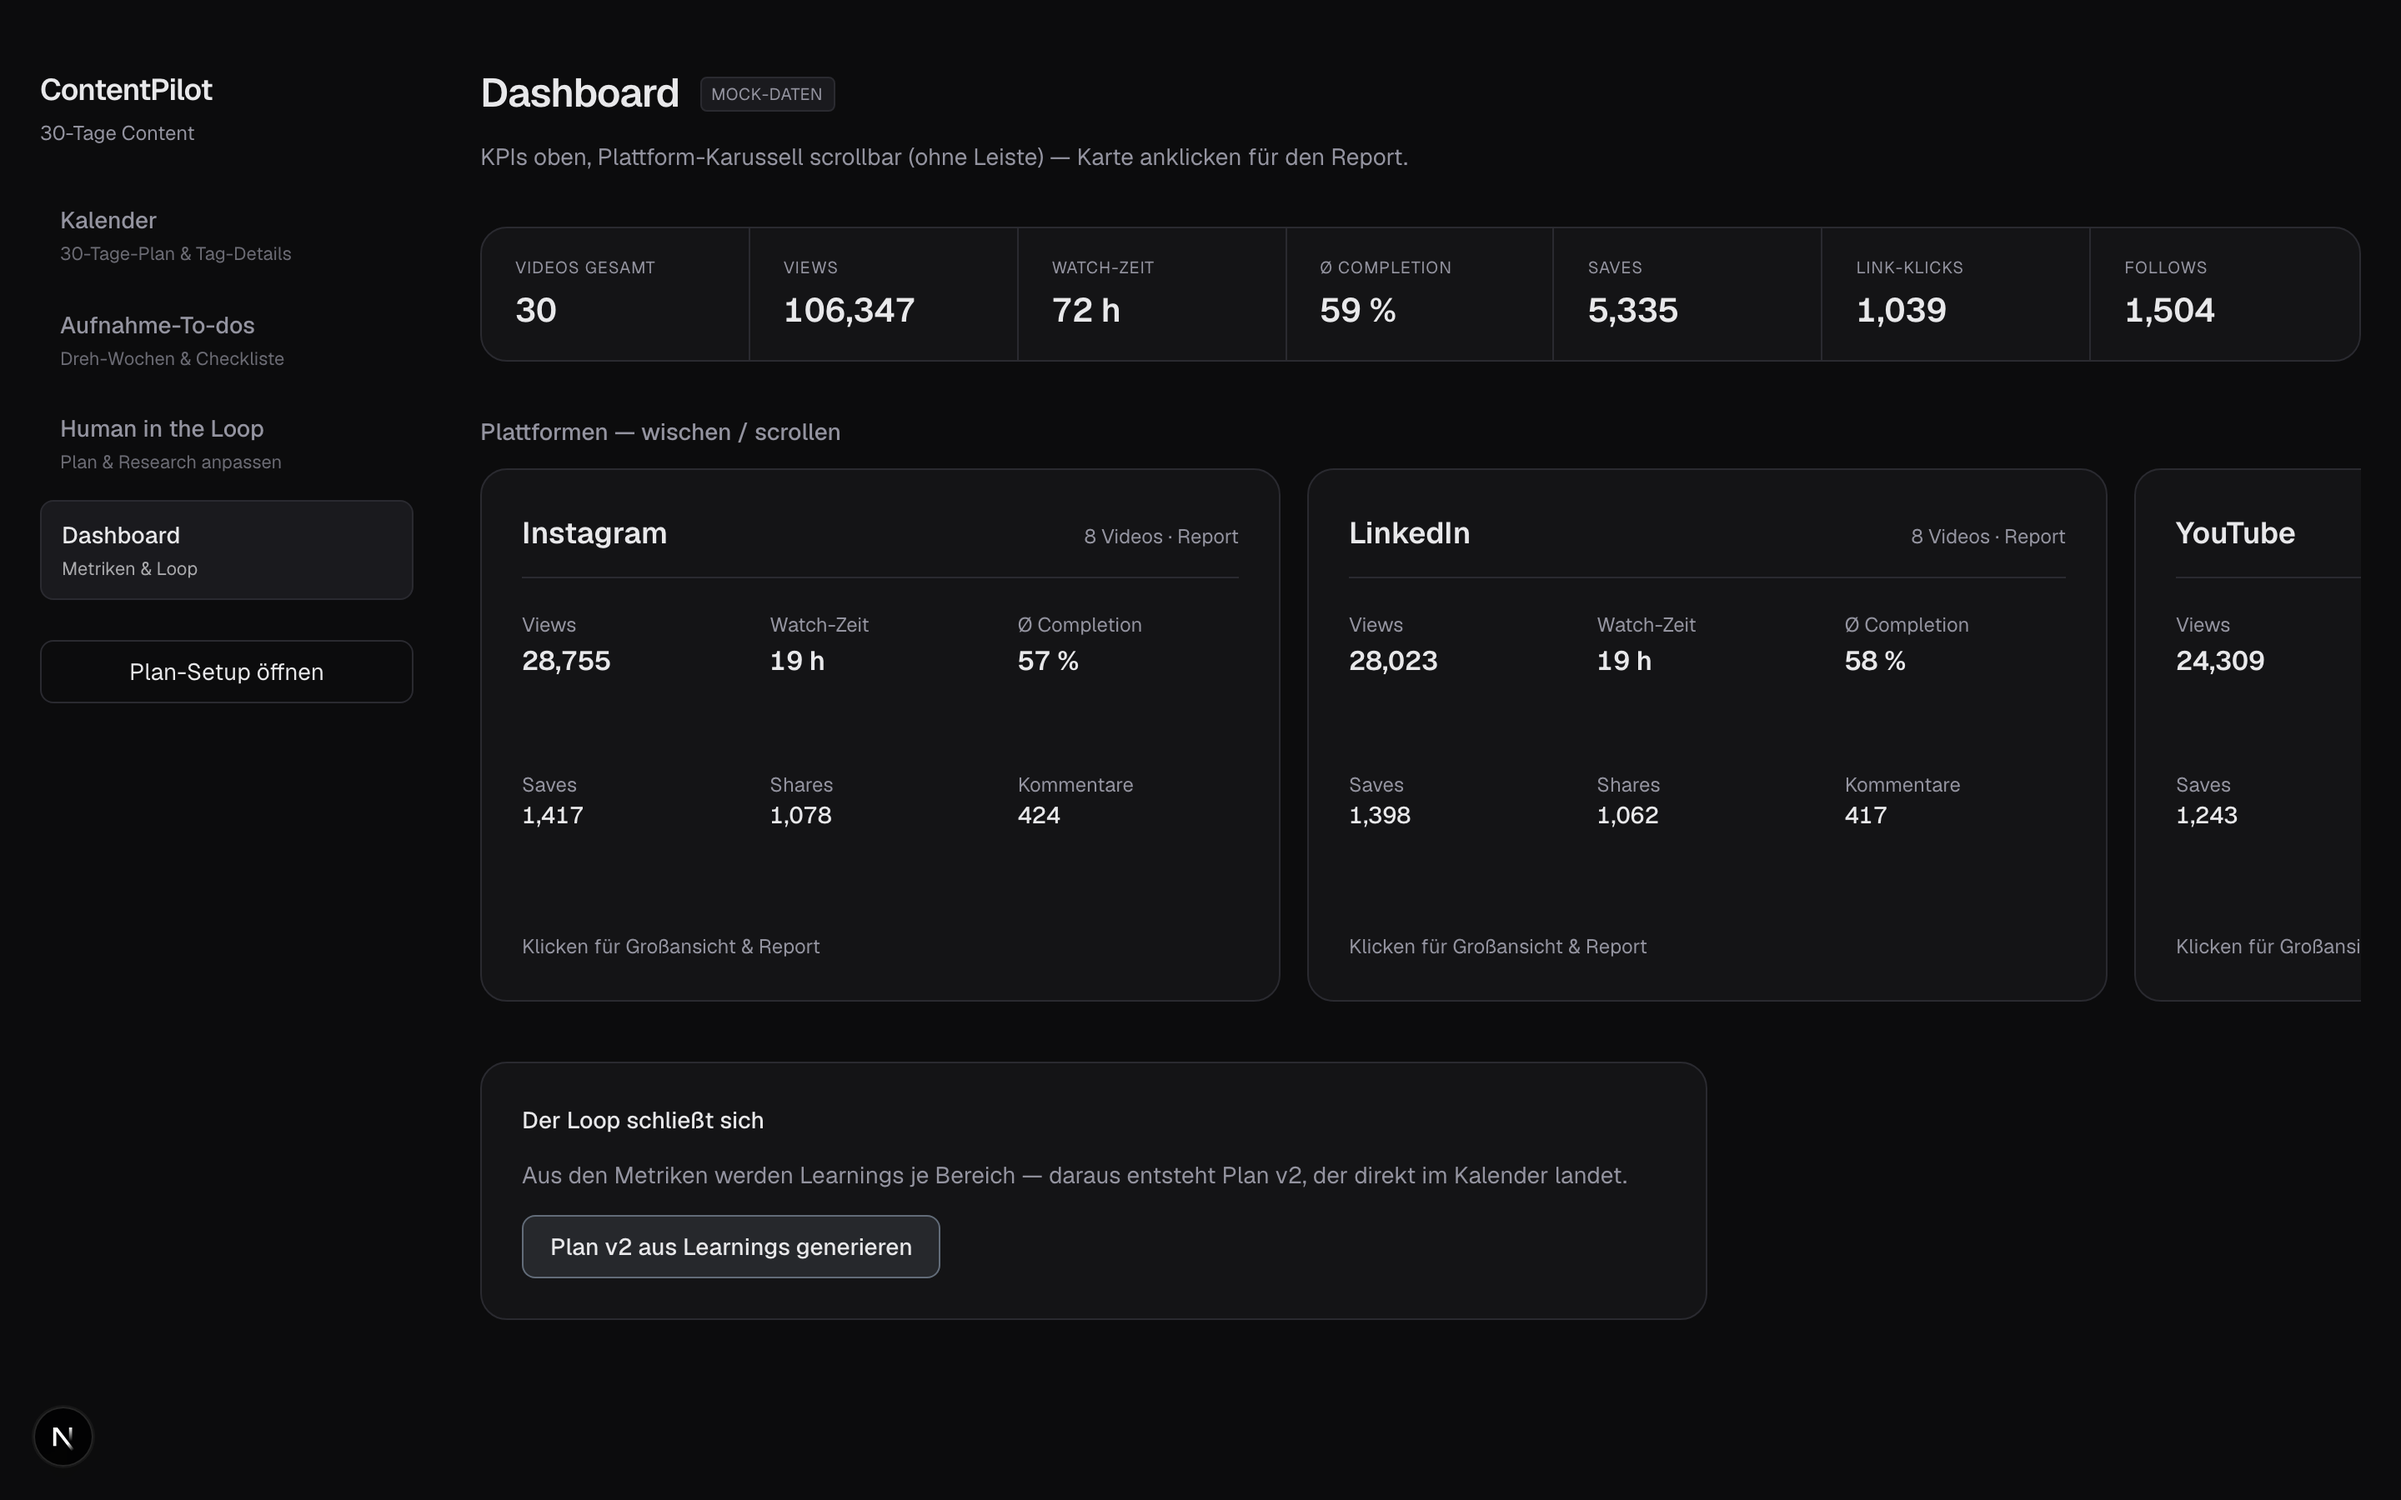
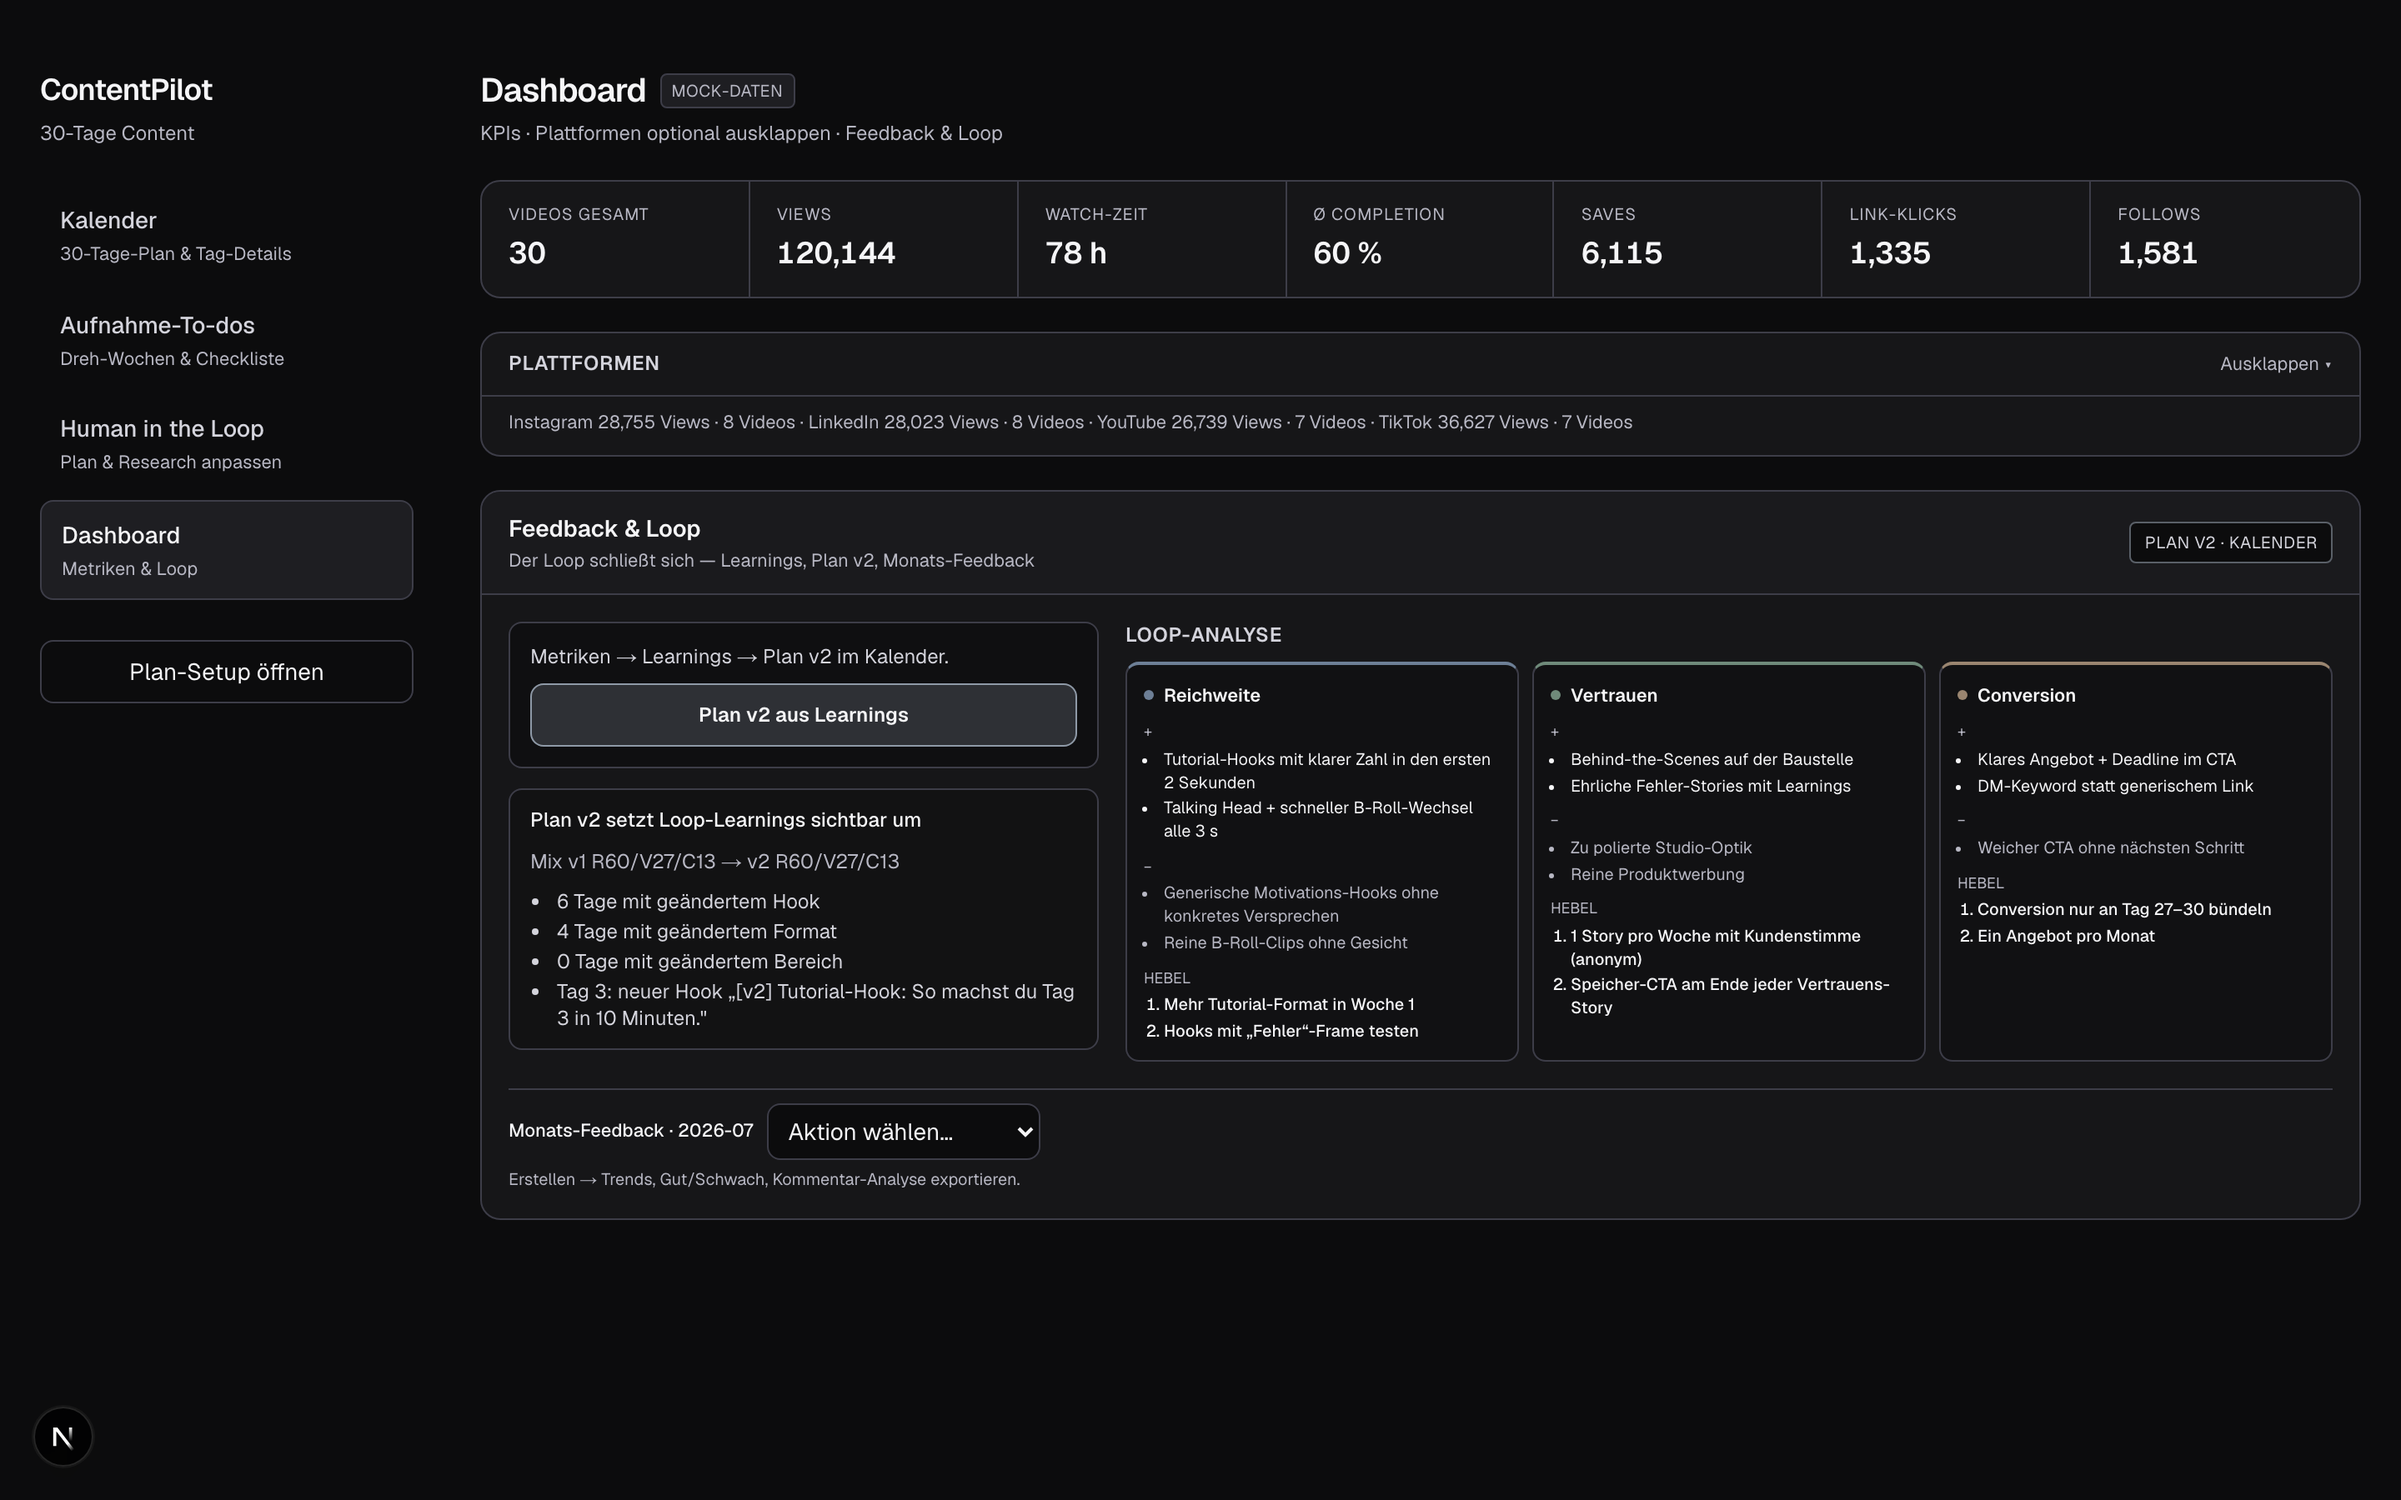
Docs: README- und Pitch-Screenshots an neue UI anpassen.
Kalender-Drawer, Feedback & Loop, Plan-Setup und HiDPI-Mockups neu gerendert.

diff --git a/scripts/capture-readme-screenshots.ts b/scripts/capture-readme-screenshots.ts
@@ -1,15 +1,19 @@
 /**
- * Erzeugt README-Screenshots (Dev-Server muss laufen: npm run dev).
- * Usage: npx tsx scripts/capture-readme-screenshots.ts
+ * Erzeugt README-Screenshots (Dev-Server: npm run dev).
+ * PLAYWRIGHT_BROWSERS_PATH=0 npm run screenshots
  */
 import { chromium } from "playwright";
+import fs from "fs";
 import path from "path";
 import { fileURLToPath } from "url";
 import {
+  buildDemoPerformance,
   buildDemoZyklus,
+  DEMO_LEARNINGS,
   DEMO_NISCHE,
   DEMO_RESEARCH,
 } from "../lib/demo/mockData";
+import { computePlanDiff } from "../lib/planDiff";
 
 const __dirname = path.dirname(fileURLToPath(import.meta.url));
 const outDir = path.join(__dirname, "../docs/screenshots");
@@ -25,6 +29,7 @@ const emptyAnswers = {
 };
 
 function demoSnapshot(menu: string, extra: Record<string, unknown> = {}) {
+  const v1 = buildDemoZyklus(1);
   return {
     phase: "done",
     menu,
@@ -40,8 +45,10 @@ function demoSnapshot(menu: string, extra: Record<string, unknown> = {}) {
       referenzVideos: [],
     },
     briefing: {
+      nische: DEMO_NISCHE,
       praezisierteNische: DEMO_NISCHE,
       referentCreator: "Max Mustermann",
+      answers: emptyAnswers,
       contentVision:
         "30 Tage sichtbar werden: Reichweite, Vertrauen, Conversion im Mix.",
       tonality: DEMO_RESEARCH.tonality,
@@ -50,13 +57,14 @@ function demoSnapshot(menu: string, extra: Record<string, unknown> = {}) {
     researchCycle: 1,
     researchThemen: [],
     brainstormIdeas: [],
-    zyklus: buildDemoZyklus(1),
+    zyklus: v1,
     productionGuide: null,
     progressLog: [],
     recordedIds: [],
     learnings: null,
     planDiff: null,
     planVersion: 1,
+    performance: [] as unknown[],
     ...extra,
   };
 }
@@ -71,7 +79,7 @@ async function seedAndReload(
     { key: STORAGE_KEY, data: snapshot }
   );
   await page.reload({ waitUntil: "networkidle" });
-  await page.waitForTimeout(600);
+  await page.waitForTimeout(800);
 }
 
 async function shot(page: import("playwright").Page, name: string) {
@@ -83,21 +91,46 @@ async function shot(page: import("playwright").Page, name: string) {
 }
 
 async function clickNav(page: import("playwright").Page, label: string) {
-  await page.getByRole("button", { name: new RegExp(label, "i") }).click();
-  await page.waitForTimeout(500);
+  await page.getByRole("button", { name: new RegExp(label, "i") }).first().click();
+  await page.waitForTimeout(700);
 }
 
 async function main() {
+  fs.mkdirSync(outDir, { recursive: true });
+
   const browser = await chromium.launch();
   const page = await browser.newPage({
     viewport: { width: 1440, height: 900 },
     deviceScaleFactor: 2,
   });
 
-  await seedAndReload(page, demoSnapshot("calendar"));
-  await shot(page, "01-kalender.png");
+  const v1 = buildDemoZyklus(1);
+  const v2 = buildDemoZyklus(2);
+  const perf = buildDemoPerformance(v1);
+  const diff = computePlanDiff(v1.plan, v2.plan);
 
-  await clickNav(page, "Dashboard");
+  // Kalender mit Tag-Detail (Inhaltsvorschlag + Skript)
+  await seedAndReload(page, demoSnapshot("calendar", { zyklus: v1 }));
+  await page.getByRole("button", { name: /Reichweite-Hook Tag 10/i }).click();
+  await page.waitForTimeout(900);
+  await shot(page, "01-kalender.png");
+  await page.keyboard.press("Escape");
+  await page.waitForTimeout(400);
+
+  // Dashboard: KPIs + Feedback & Loop (Plan v2)
+  await seedAndReload(
+    page,
+    demoSnapshot("dashboard", {
+      zyklus: v2,
+      planVersion: 2,
+      performance: perf,
+      learnings: DEMO_LEARNINGS,
+      learningsMock: true,
+      planDiff: diff,
+    })
+  );
+  await page.getByText("Feedback & Loop").first().scrollIntoViewIfNeeded();
+  await page.waitForTimeout(600);
   await shot(page, "02-dashboard.png");
 
   await clickNav(page, "Human in the Loop");
@@ -106,12 +139,9 @@ async function main() {
   await clickNav(page, "Aufnahme-To-dos");
   await shot(page, "04-aufnahme-todos.png");
 
-  await seedAndReload(
-    page,
-    demoSnapshot("calendar", { showSetup: undefined })
-  );
+  await seedAndReload(page, demoSnapshot("calendar", { zyklus: v1 }));
   await page.getByRole("button", { name: /Plan-Setup öffnen/i }).click();
-  await page.waitForTimeout(400);
+  await page.waitForTimeout(700);
   await shot(page, "05-plan-setup.png");
 
   await browser.close();

diff --git a/scripts/capture-pitch-screenshots-hd.ts b/scripts/capture-pitch-screenshots-hd.ts
@@ -7,6 +7,7 @@ import { chromium } from "playwright";
 import path from "path";
 import { fileURLToPath } from "url";
 import {
+  buildDemoPerformance,
   buildDemoZyklus,
   DEMO_LEARNINGS,
   DEMO_NISCHE,
@@ -105,9 +106,9 @@ async function main() {
   await page.reload({ waitUntil: "networkidle" });
   await page.getByRole("button", { name: /Plan-Setup starten/i }).click();
   await page.waitForTimeout(500);
-  await page.locator('input[placeholder*="Handwerker"]').fill(DEMO_NISCHE);
-  await page.locator('input[placeholder*="Creator"]').fill("Max Handwerk");
-  await page.getByRole("button", { name: /Weiter zu 5 Fragen/i }).click();
+  await page.locator("#setup-nische").fill(DEMO_NISCHE);
+  await page.locator("#setup-referent").fill("Max Handwerk");
+  await page.getByRole("button", { name: /Weiter — 5 kurze Fragen/i }).click();
   await page.waitForTimeout(500);
   const select = page.locator("select").first();
   if (await select.isVisible()) {
@@ -117,7 +118,7 @@ async function main() {
   await page.waitForTimeout(400);
   await shotFullPage(page, "01-planungsformular-fragen-2x.png");
 
-  // 2 — Kalender: Tag anklicken (Drawer mit Skript)
+  // 2 — Kalender: Tag-Detail mit Inhaltsvorschlag & Skript
   const v1 = buildDemoZyklus(1);
   await inject(
     page,
@@ -151,6 +152,7 @@ async function main() {
       planVersion: 2,
       learnings: DEMO_LEARNINGS,
       planDiff: diff,
+      performance: buildDemoPerformance(v1),
       briefing: {
         nische: DEMO_NISCHE,
         referentCreator: "Max Handwerk",

diff --git a/README.md b/README.md
@@ -79,7 +79,7 @@ flowchart LR
 
 ### 30-Tage-Kalender
 
-Tag anklicken öffnet Skript und Vorschläge im Seiten-Drawer.
+Tag anklicken → **Inhaltsvorschlag**, Skript-Button, Hook/Inhalt/CTA und Bildvorschläge im Drawer.
 
 <p align="center">
   <img src="docs/screenshots/01-kalender.png" alt="Kalender mit 30-Tage-Plan" width="920" />
@@ -87,7 +87,7 @@ Tag anklicken öffnet Skript und Vorschläge im Seiten-Drawer.
 
 ### Dashboard & Loop
 
-KPI-Leiste, scrollbares Plattform-Karussell (ohne sichtbare Scrollbar), Klick → **Großansicht Report**.
+KPI-Leiste, **Feedback & Loop** (Learnings, Plan v2, Monats-Feedback). Plattformen einklappbar.
 
 <p align="center">
   <img src="docs/screenshots/02-dashboard.png" alt="Dashboard mit KPIs und Plattform-Karussell" width="920" />
